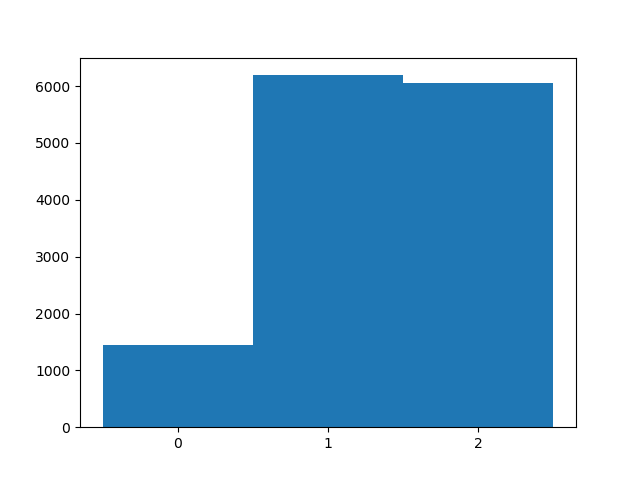
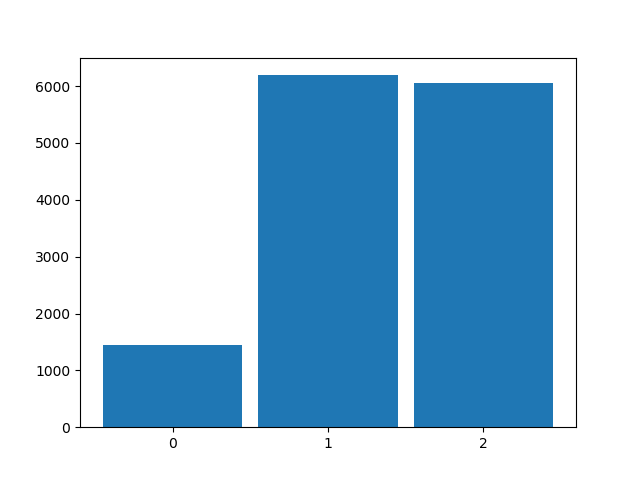
another figure, and t-tests

diff --git a/ttest.py b/ttest.py
@@ -1,0 +1,20 @@
+from scipy.stats import ttest_ind, ttest_1samp
+
+model1 = [0.569, 0.571]
+model2 = [0.583, 0.566]
+model3 = [0.585, 0.592]
+
+baseline = 0.578
+
+if __name__ == '__main__':
+    t, p = ttest_ind(model1, model2)
+    print(f'model1 vs model2: p={p}, t={t}')
+
+    t, p = ttest_ind(model1, model3)
+    print(f'model1 vs model3: p={p}, t={t}')
+
+    t, p = ttest_ind(model2, model3)
+    print(f'model2 vs model3: p={p}, t={t}')
+
+    t, p = ttest_1samp(model1, baseline)
+    print(f'model1 vs baseline: p={p}, t={t}')

diff --git a/makeFigures.py b/makeFigures.py
@@ -13,7 +13,7 @@ def task1():
 def task2():
     data2 = readDataTask2([TASK_2 / 'train.csv', TASK_2 / 'dev.csv', EXTRA_TRAIN_TASK_2])
     labels = [label for _, _, _, _, label in data2]
-    plt.hist(labels, bins=np.arange(4)-0.5)
+    plt.hist(labels, bins=np.arange(4)-0.5, rwidth=0.9)
     plt.xticks(np.arange(3), np.arange(3))
     plt.show()
     

diff --git a/README.md b/README.md
@@ -33,4 +33,6 @@ Make a directory in the iwt-wot directory titled `englishVecs`, and place the fi
 
 ### Run code
 
-Can run baselines.py and makeFigures.py independently. To run iwt-wot.ipynb, open it in a Jupyter notebook. Ignore the first 4 cells (only necessary if running in Google Colab). In 5th cell, change DRIVE_DIR path to reflect the location of the iwt-wot directory (should be the working directory, unless you moved iwt-wot.ipynb). Then all other cells can be run as usual. 
+Can run baselines.py and makeFigures.py independently. To run iwt-wot.ipynb, open it in a Jupyter notebook. Ignore the first 4 cells (only necessary if running in Google Colab). In 5th cell, change DRIVE_DIR path to reflect the location of the iwt-wot directory (should be the working directory, unless you moved iwt-wot.ipynb). Then all other cells can be run as usual.
+
+To reproduce the results of our project, just follow the guidance in the Markdown cells. They show which cells to run for training and testing of each sub-task. 
